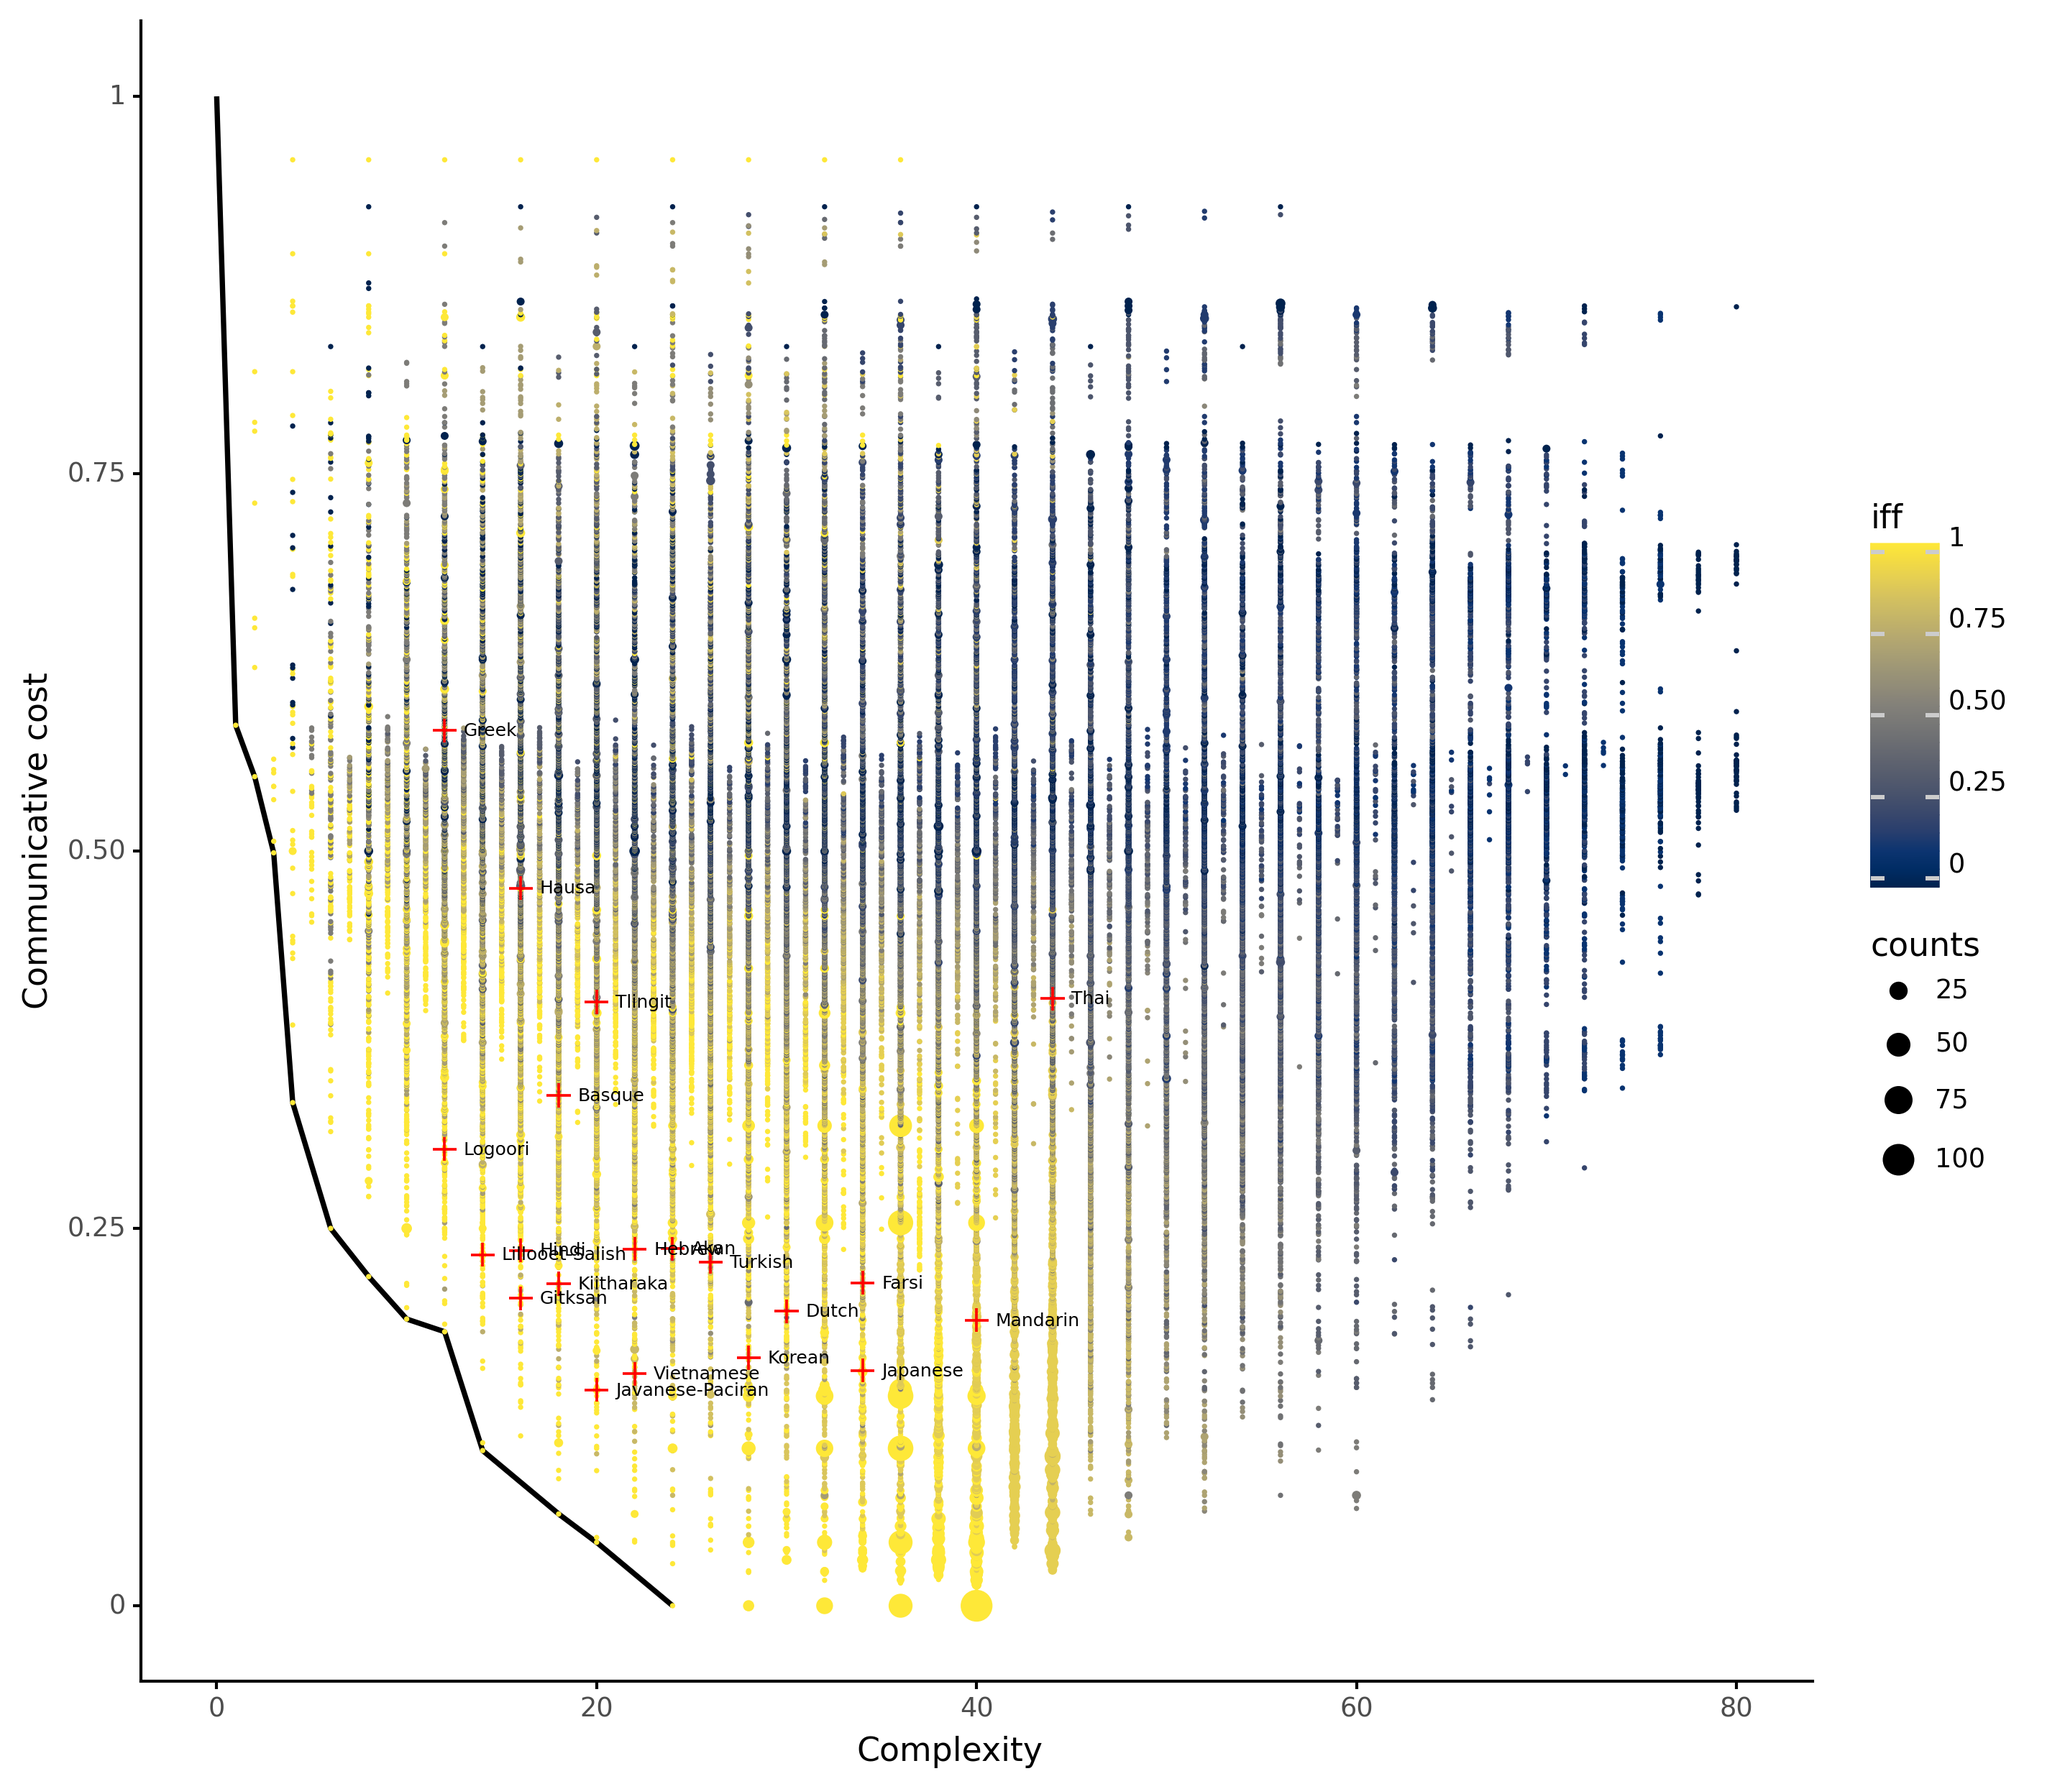
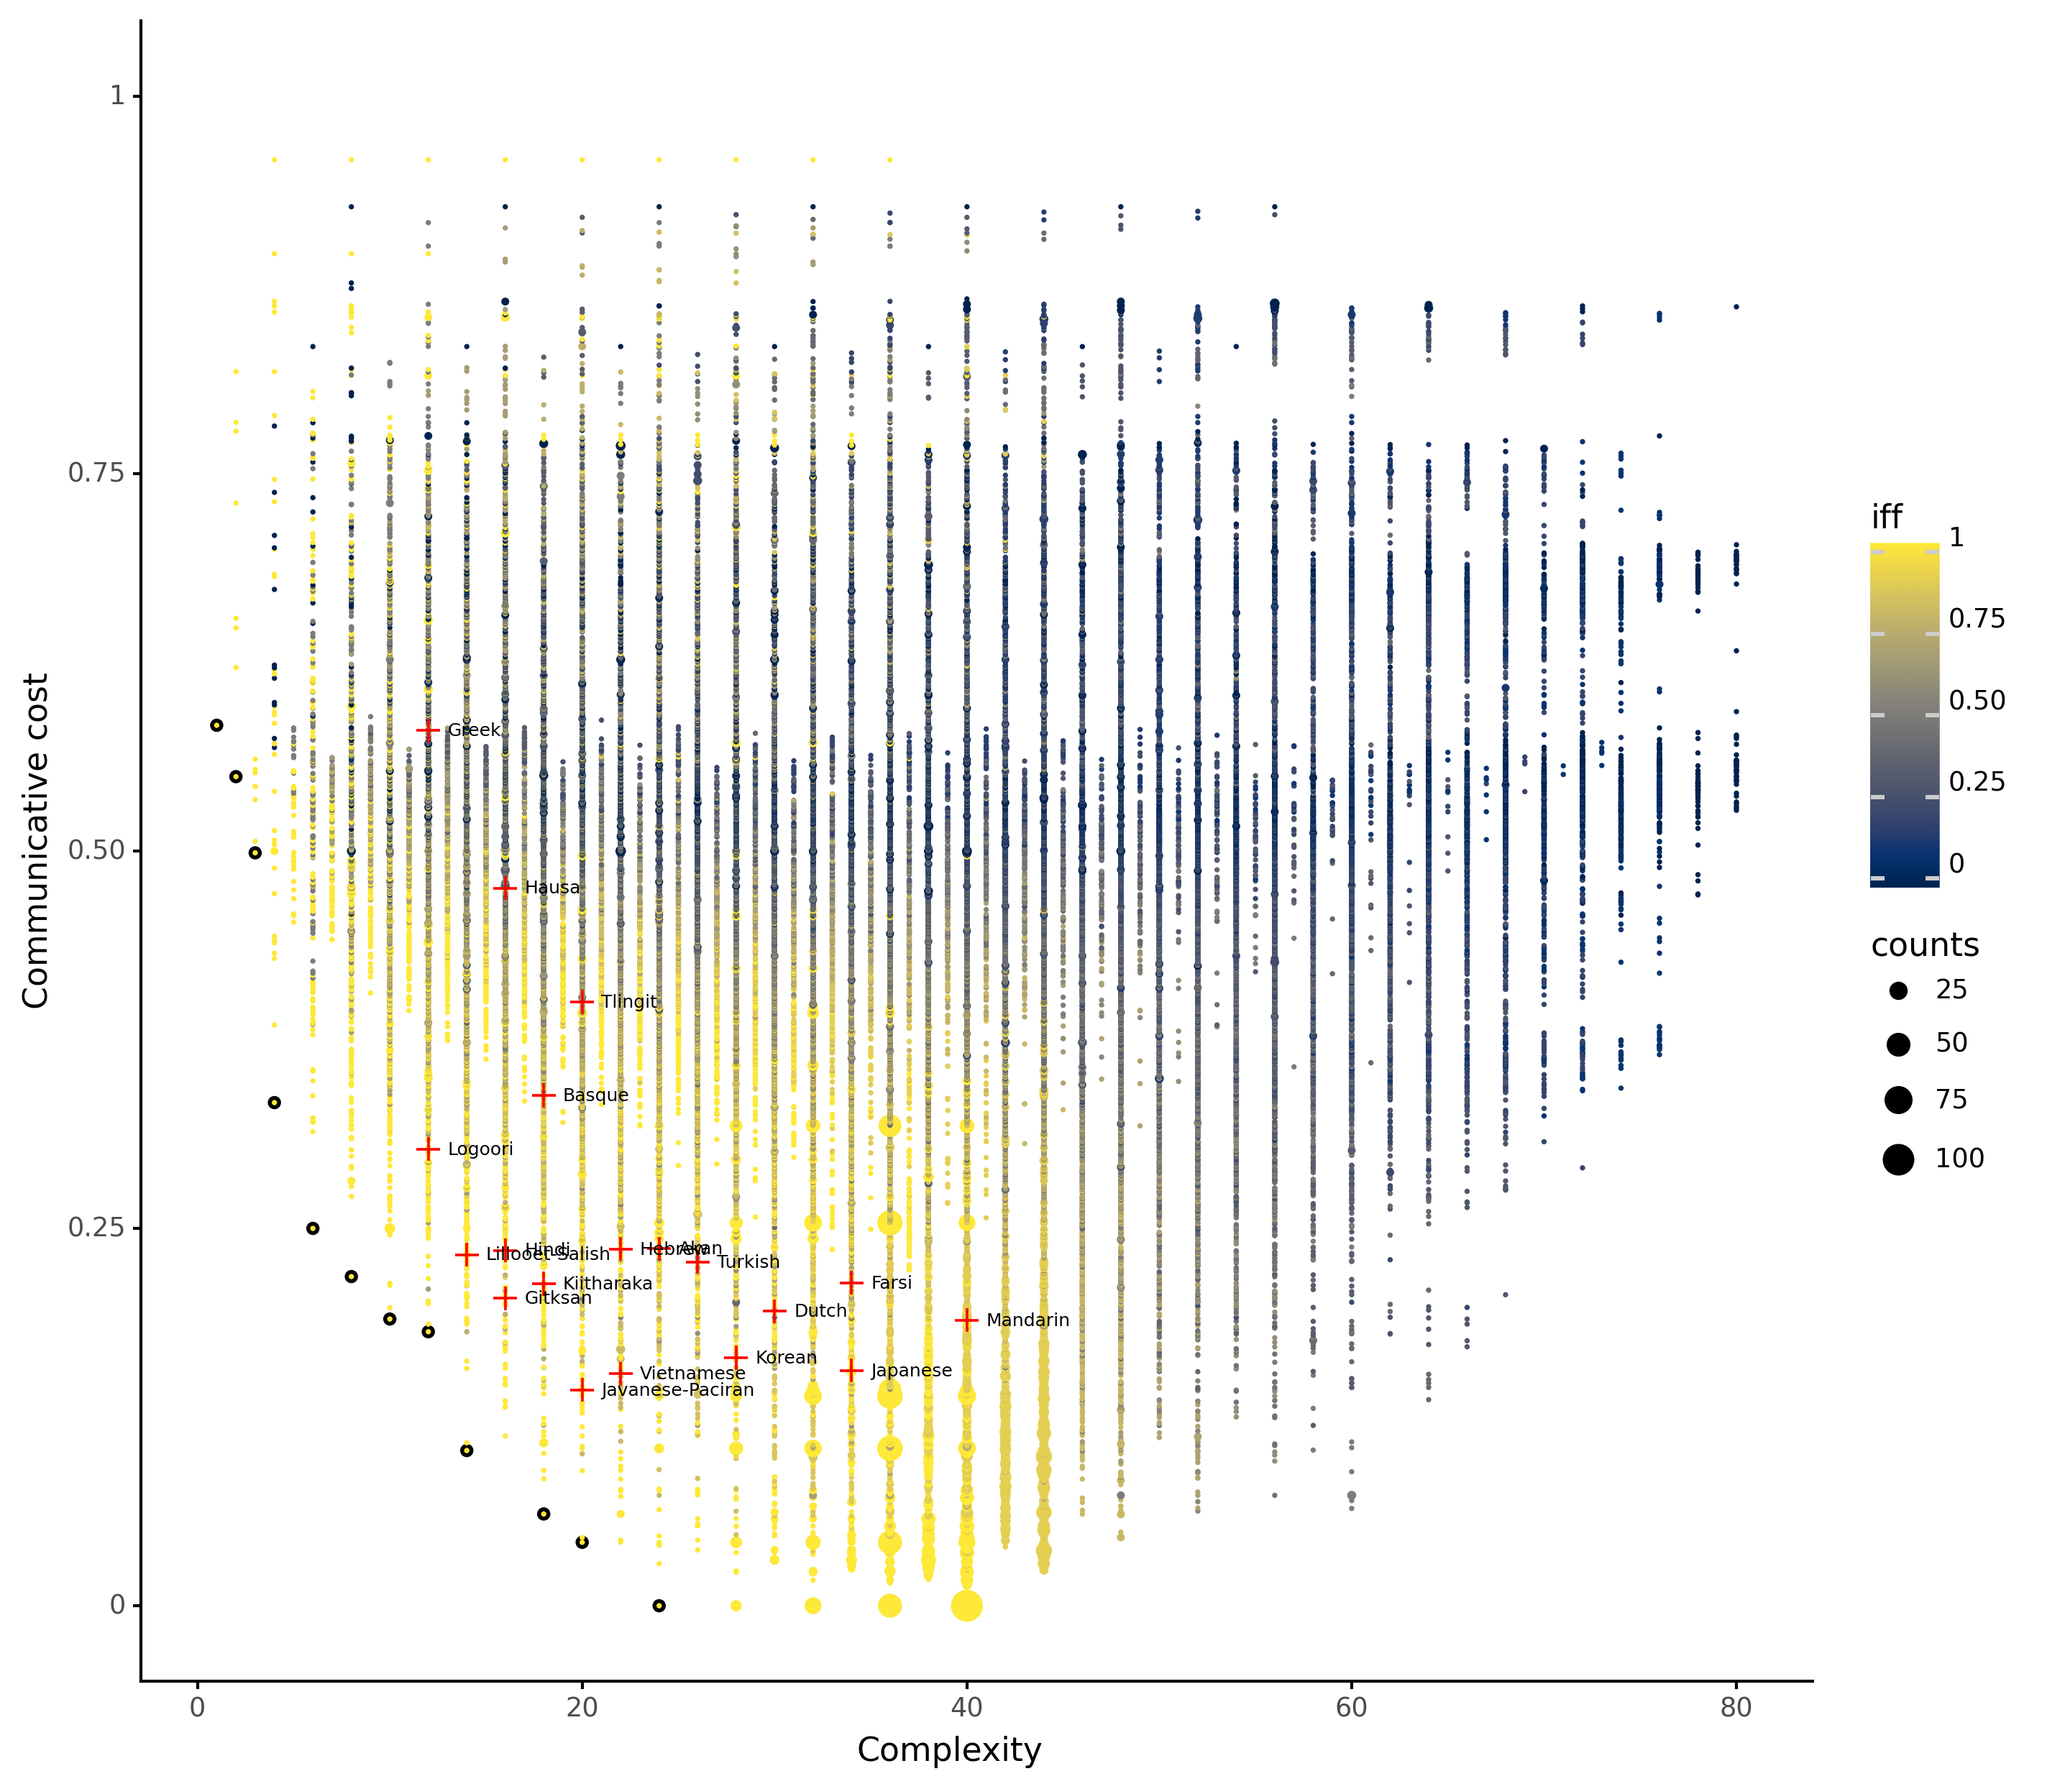
non-interpolated plot

diff --git a/src/analyze.py b/src/analyze.py
@@ -39,10 +39,10 @@ def get_modals_plot(
     print(natural_data)
 
     # smooth pareto curve again
-    pareto_df = pareto_data[["comm_cost", "complexity"]]
-    pareto_points = pareto_df.to_records(index=False).tolist()
-    pareto_points = interpolate_data(pareto_points)
-    pareto_smoothed = pd.DataFrame(pareto_points, columns=["comm_cost", "complexity"])
+    # pareto_df = pareto_data[["comm_cost", "complexity"]]
+    # pareto_points = pareto_df.to_records(index=False).tolist()
+    # pareto_points = interpolate_data(pareto_points)
+    # pareto_smoothed = pd.DataFrame(pareto_points, columns=["comm_cost", "complexity"])
 
     # aesthetics for all data
     kwargs = {
@@ -60,7 +60,7 @@ def get_modals_plot(
         # Set data and the axes
         pn.ggplot(mapping=pn.aes(x="complexity", y="comm_cost"))
         + pn.scale_y_continuous(limits=[0, 1])
-        + pn.geom_line(size=1, data=pareto_smoothed)
+        + pn.geom_point(data=pareto_data)
         + pn.geom_point(  # all langs
             data=data,
             stroke=0,
@@ -126,6 +126,7 @@ def main():
     data = pd.read_csv(df_fn)
     pareto_data = data[data["dominant"] == True]
     natural_data = data[data["natural"] == True]
+    natural_data = natural_data[natural_data["name"] != "Thai"]
 
     # Plot
     naturalness = configs["universal_property"]
